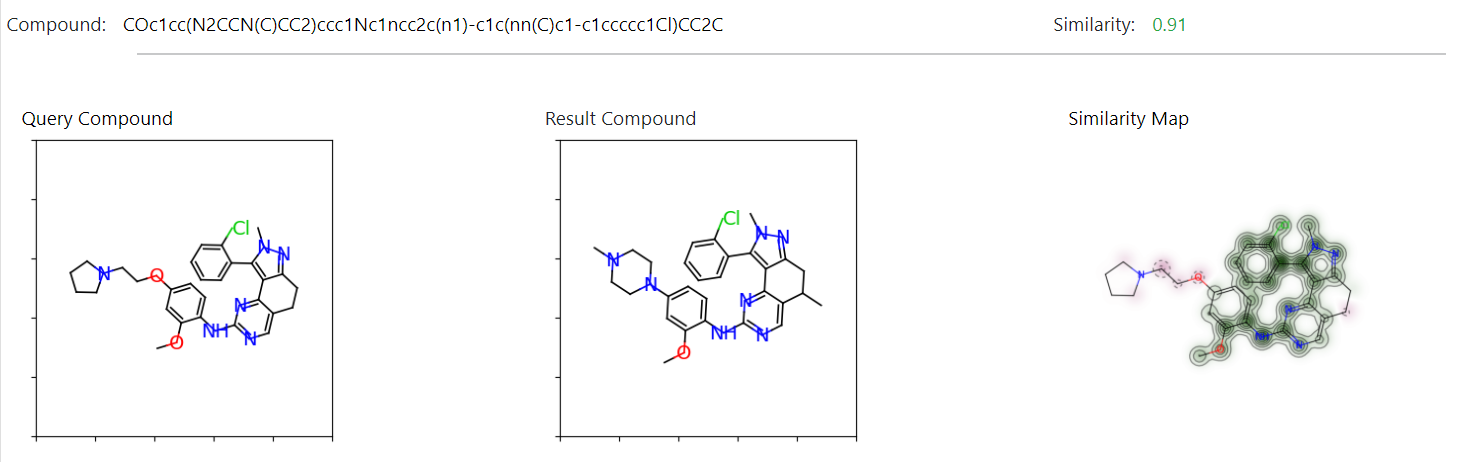
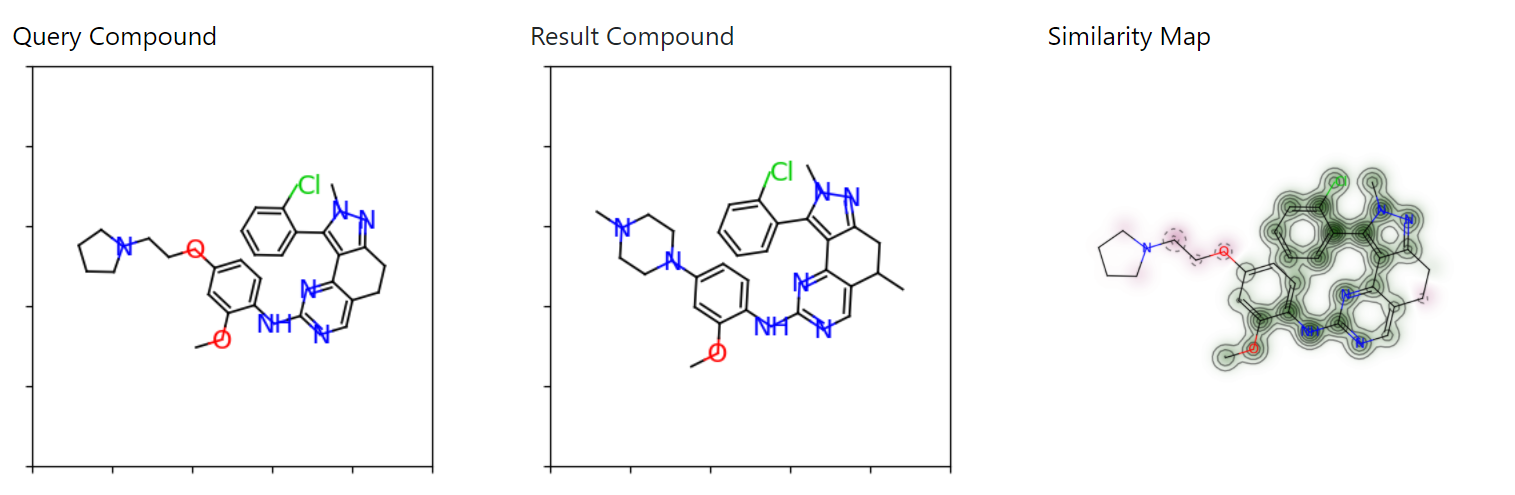
++

diff --git a/exampleSite/public/post/project-3/index.html b/exampleSite/public/post/project-3/index.html
@@ -40,7 +40,7 @@
 <meta itemprop="name" content="Project III: Drug Target Identification">
 <meta itemprop="description" content="Molecular Descriptor Analysis"><meta itemprop="datePublished" content="2021-04-24T10:58:08-04:00" />
 <meta itemprop="dateModified" content="2021-04-24T10:58:08-04:00" />
-<meta itemprop="wordCount" content="115">
+<meta itemprop="wordCount" content="127">
 <meta itemprop="keywords" content="" /><meta name="twitter:card" content="summary"/>
 <meta name="twitter:title" content="Project III: Drug Target Identification"/>
 <meta name="twitter:description" content="Molecular Descriptor Analysis"/>
@@ -196,11 +196,12 @@
     <div class="nested-copy-line-height lh-copy serif f4 nested-links nested-img mid-gray pr4-l w-two-thirds-l"><h2 id="problem-statement">Problem Statement</h2>
 <p>Drug discovery and development pipeline is resource-intensive and time-consuming, which make them a major obstacle for rapid drug development. Current challenge is to develop discovery pipelines that can identify promising drug compounds early. A reliable method that can identify the potential drug compound with respect to its successful clinical translatability is needed today.</p>
 <h2 id="objectives">Objectives</h2>
-<p><img src="https://a-y-yang.github.io/Yin_Portfolio/images/prj3_objs2.png" alt="prj3_objs"></p>
+<p><img src="https://a-y-yang.github.io/Yin_Portfolio/images/prj3_objs3.png" alt="prj3_objs"></p>
 <ul>
 <li>Established a prototype pipeline to rank potential drug compounds for drug discovery to reduce the time and costs of drug development.</li>
 <li>Calculated PubChem Fingerprints using PaDEL-Descriptor.</li>
 <li>Built machine learning models(decision tree, random forest, gradient boosting, logistic regression, SVM, DNN, LSTM) for molecular structure analysis to predict compounds’ bioactivity toward selected targets.</li>
+<li>Found active compounds with similar chemical structure (&gt; 90% similarity) using RDKit.</li>
 <li>Built a client-facing API using Python Django.</li>
 </ul>
 <p><a href="https://github.com/A-Y-Yang/CSP-572-Drug-Target-Identification-master">[GitHub]</a></p>

diff --git a/exampleSite/content/post/project-3.md b/exampleSite/content/post/project-3.md
@@ -11,13 +11,12 @@ Drug discovery and development pipeline is resource-intensive and time-consuming
 
 
 ## Objectives
-![prj3_objs](/images/prj3_objs2.png)
+![prj3_objs](/images/prj3_objs3.png)
 
 * Established a prototype pipeline to rank potential drug compounds for drug discovery to reduce the time and costs of drug development.
 * Calculated PubChem Fingerprints using PaDEL-Descriptor.
 * Built machine learning models(decision tree, random forest, gradient boosting, logistic regression, SVM, DNN, LSTM) for molecular structure analysis to predict compounds’ bioactivity toward selected targets.
+* Found active compounds with similar chemical structure (> 90% similarity) using RDKit.
 * Built a client-facing API using Python Django.
-
-
 
 [[GitHub]](https://github.com/A-Y-Yang/CSP-572-Drug-Target-Identification-master)
